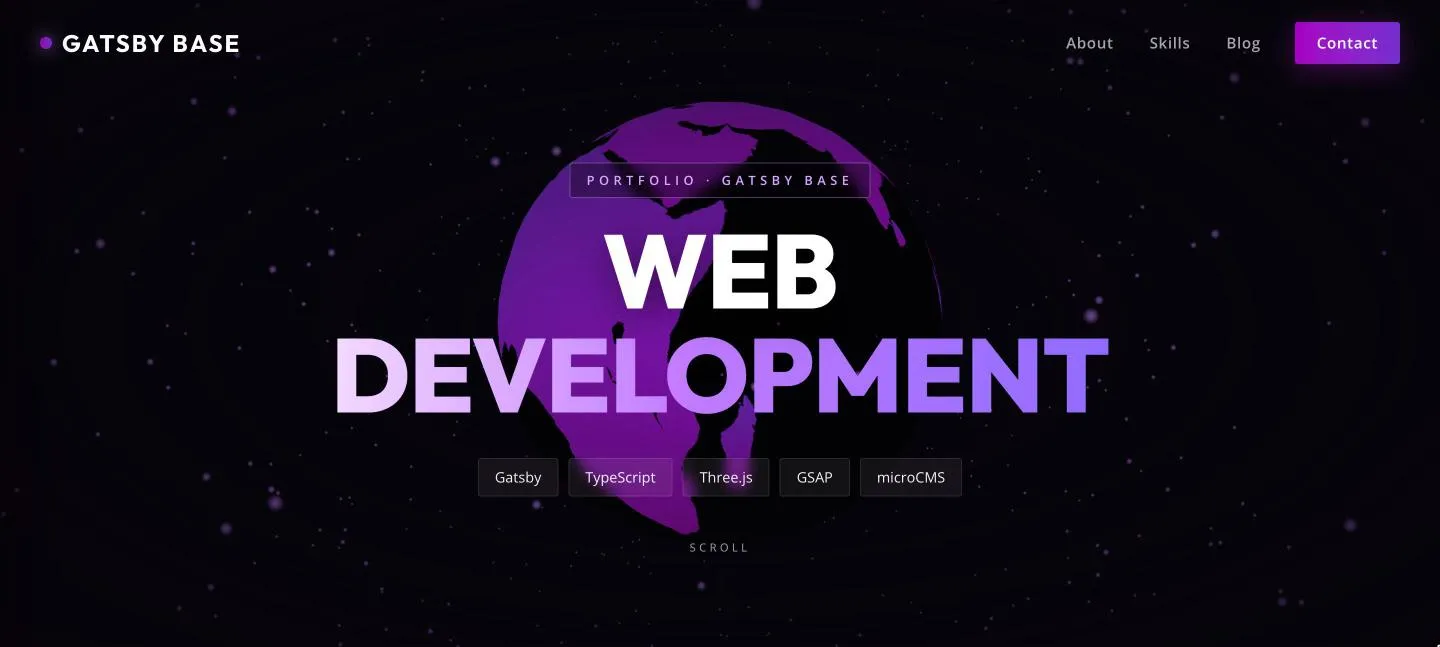
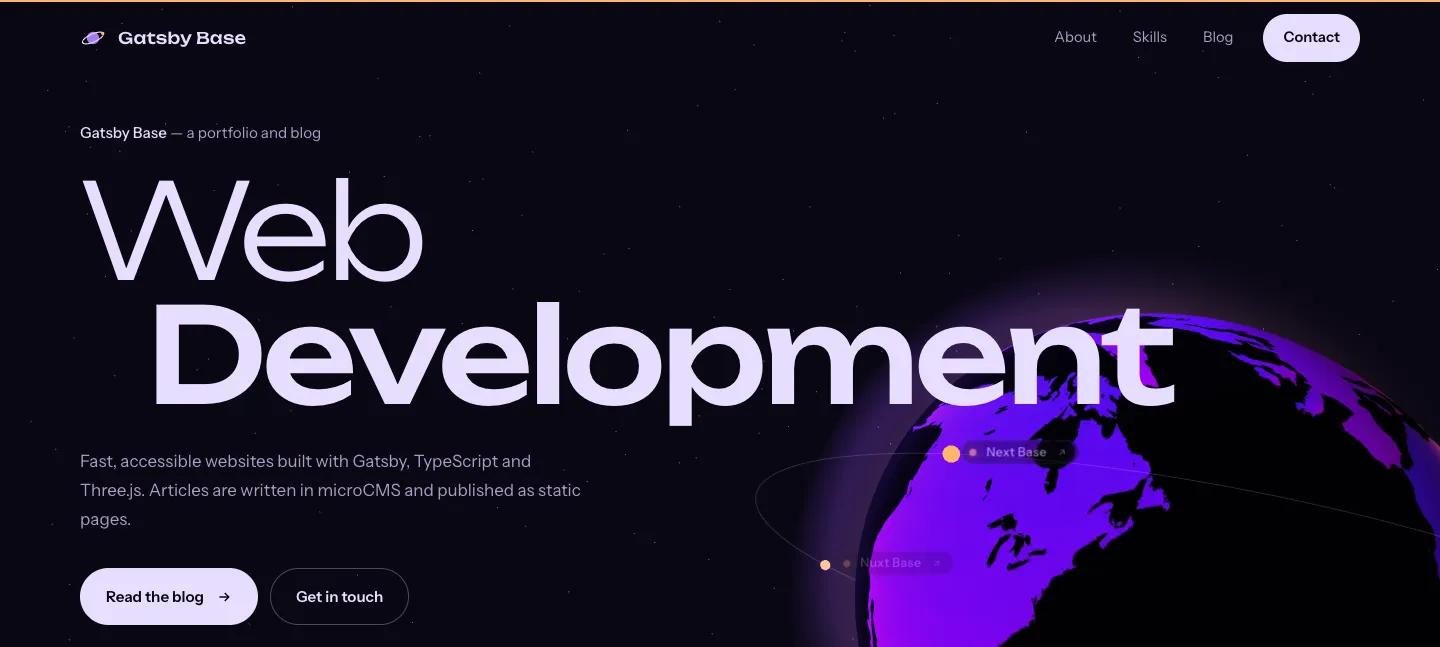
Update GATSBY BASE for its space redesign
GATSBY BASE moved to Gatsby 5.16 / React 19 / Three r187 with a scroll-driven planet and sister sites orbiting as satellites. Update its Jamstack entry, retake the hero screenshot, and rewrite profile.json. Delivery is still SSG, rebuilt by a microCMS webhook.

diff --git a/frontend/lib/config.ts b/frontend/lib/config.ts
@@ -363,10 +363,10 @@ export const JAMSTACK: JamSite[] = [
   {
     name: "GATSBY BASE", fw: "Gatsby 5", render: "SSG", repo: "Gatsby-TypeScript-Threejs-MicroCMS-Site",
     demo: "https://gatsbybase.vercel.app", img: "gatsby", size: [1440, 647],
-    tech: ["Gatsby 5", "TypeScript", "Three.js", "GraphQL"],
+    tech: ["Gatsby 5", "React 19", "Three.js", "GraphQL", "microCMS"],
     note: {
-      ja: "microCMS のデータを GraphQL のデータ層に取り込み、File System Route API で記事ページを自動生成。ヒーローは Three.js。",
-      en: "microCMS data is pulled into Gatsby's GraphQL data layer, and post pages are generated with the File System Route API. The hero uses Three.js.",
+      ja: "microCMS のデータを GraphQL のデータ層に取り込み、File System Route API で記事ページを自動生成。Three.js の惑星がスクロールに合わせて動き、姉妹サイトが衛星として周回する。",
+      en: "microCMS data is pulled into Gatsby's GraphQL data layer, and post pages are generated with the File System Route API. A Three.js planet moves as you scroll, with the sister sites orbiting it as satellites.",
     },
   },
 ];
